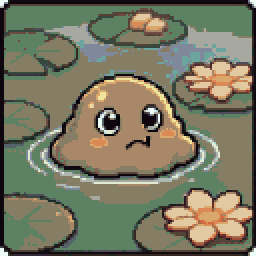
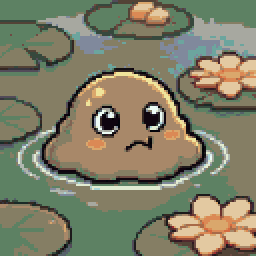
ART2 WIP: sheets 08 and 11 (Gemini), NightCafe frame inset
Claude-Session: https://claude.ai/code/session_01FLq7wToSrTQpVQBsVhz3ZD

diff --git a/tools/art/art2_import_2026_10_29.py b/tools/art/art2_import_2026_10_29.py
@@ -66,7 +66,7 @@ def trim_border(stats, n):
     return a, b
 
 
-def split_sheet(im):
+def split_sheet(im, inset=0.0):
     im = im.convert('RGB'); W, H = im.size
     cs, rs = _line_stats(im, 0), _line_stats(im, 1)
     x0, x1 = trim_border(cs, W); y0, y1 = trim_border(rs, H)
@@ -80,7 +80,8 @@ def split_sheet(im):
         a, b = trim_border(pc, p.width); c, d = trim_border(pr, p.height)
         p = p.crop((a, c, b, d))
         s = min(p.size); l = (p.width - s) // 2; t = (p.height - s) // 2
-        panels.append(p.crop((l, t, l + s, t + s)))
+        k = int(s * inset)  # NightCafe draws a rounded frame per panel: cut inside it
+        panels.append(p.crop((l + k, t + k, l + s - k, t + s - k)))
     return panels
 
 
@@ -142,7 +143,7 @@ def main():
         if a.only and fn not in a.only: continue
         src = os.path.join(a.src, fn)
         if not os.path.exists(src): print('missing', src); continue
-        panels = split_sheet(Image.open(src))
+        panels = split_sheet(Image.open(src), inset=0.045 if 'nightcafe' in fn else 0.0)
         for cid, pos, p in zip(ids, POS, panels):
             if cid is None: continue
             img = pixel_pass(p, colours)
